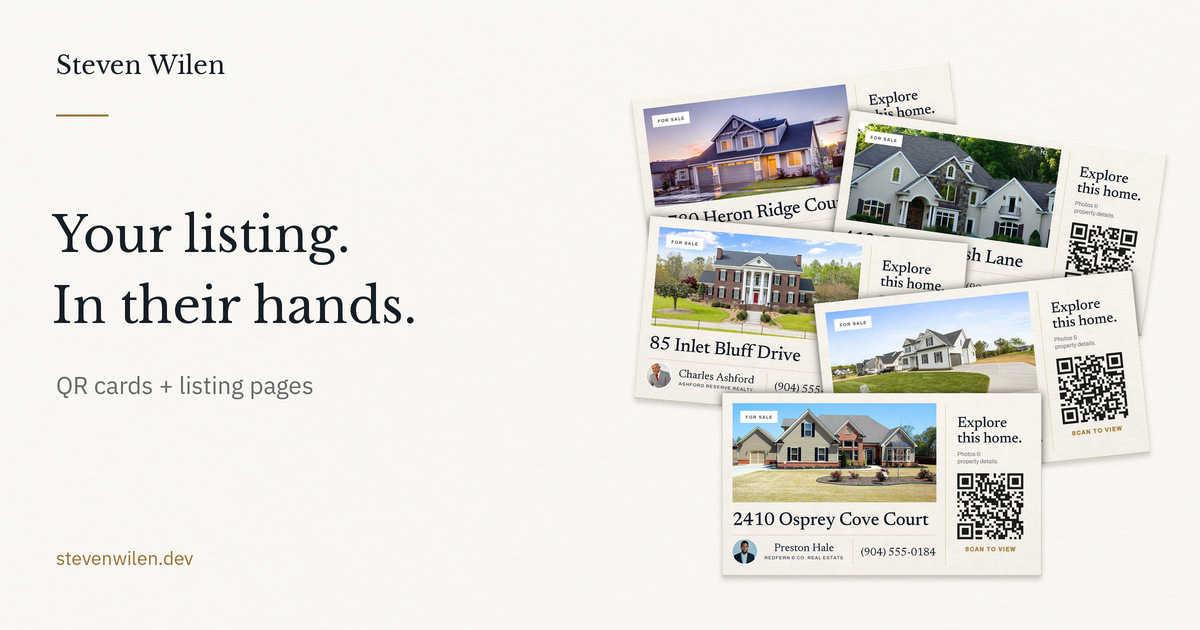
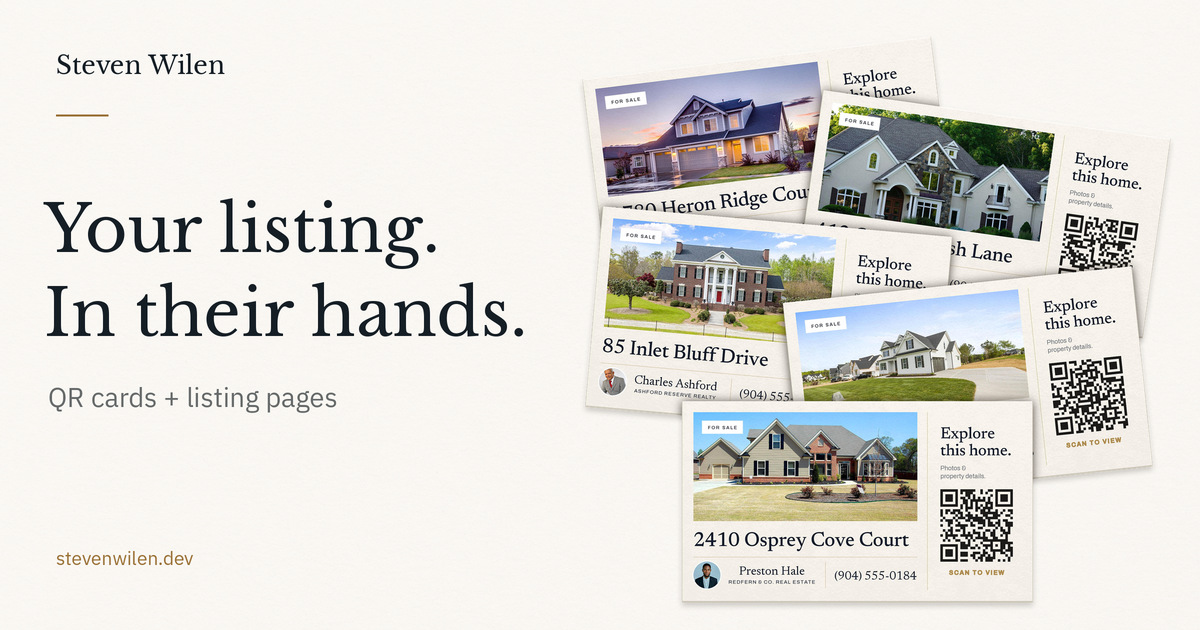
Link preview image v3

diff --git a/index.html b/index.html
@@ -16,7 +16,7 @@
 <meta property="og:url" content="https://stevenwilen.dev/">
 <meta property="og:title" content="Your listing. In a buyer’s hands.">
 <meta property="og:description" content="Printed QR cards that take buyers to your listing page. 50 cards and a listing page for $90, cards only $40. Ponte Vedra and Nocatee.">
-<meta property="og:image" content="https://stevenwilen.dev/og-image.jpg?v=2">
+<meta property="og:image" content="https://stevenwilen.dev/og-image.jpg?v=3">
 <meta property="og:image:type" content="image/jpeg">
 <meta property="og:image:width" content="1200">
 <meta property="og:image:height" content="630">
@@ -34,7 +34,7 @@
       "@id": "https://stevenwilen.dev/#business",
       "name": "Steven Wilen · QR Listing Cards",
       "url": "https://stevenwilen.dev/",
-      "image": "https://stevenwilen.dev/og-image.jpg?v=2",
+      "image": "https://stevenwilen.dev/og-image.jpg?v=3",
       "email": "steven.wilen@gmail.com",
       "telephone": "+1-904-400-0352",
       "priceRange": "$40-$90",
